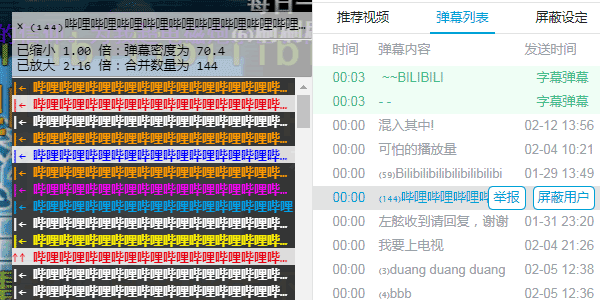
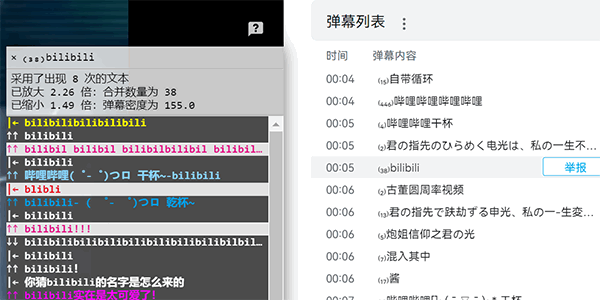
show deleted danmu in fluctlight graph

diff --git a/pakkujs/injected/fluctlight.ts b/pakkujs/injected/fluctlight.ts
@@ -5,8 +5,16 @@ import {dispval, DISPVAL_TIME_THRESHOLD} from "../core/post_combine";
 const DETAILS_MAX_TIMEDELTA_MS = 10 * 1000;
 const GRAPH_DENSITY_POWER = .8;
 const GRAPH_DENSITY_SCALE = .6;
-const GRAPH_DENSITY_DELTA = 1;
+const GRAPH_DENSITY_DELTA = 2;
 const GRAPH_ALPHA = .6;
+
+const COLOR_FILL_WITHDEL = '#ff8888';
+const COLOR_FILL_BEF = '#ffbb88';
+const COLOR_FILL_AFT = '#aa99ff';
+
+const COLOR_LINE_WITHDEL = '#bb0000';
+const COLOR_LINE_BEF = '#995500';
+const COLOR_LINE_AFT = '#0000cc';
 
 function fluctlight_cleanup() {
     for(let elem of window.root_elem.querySelectorAll('.pakku-fluctlight')) {
@@ -20,7 +28,7 @@ function fluctlight_cleanup() {
 }
 
 function inject_fluctlight_graph(bar_elem: HTMLElement, _version: int, cvs_container_elem_for_v2: HTMLElement | null) {
-    let HEIGHT = 350;
+    let HEIGHT = 300;
     let SEEKBAR_PADDING = _version === 1 ? 6 : 0;
     let WIDTH = bar_elem.clientWidth - SEEKBAR_PADDING;
 
@@ -73,7 +81,8 @@ function inject_fluctlight_graph(bar_elem: HTMLElement, _version: int, cvs_conta
         return d <= .001 ? 0 : GRAPH_DENSITY_DELTA + Math.pow(d, GRAPH_DENSITY_POWER) * GRAPH_DENSITY_SCALE;
     }
 
-    let den_bef: number[] = [], den_aft: number[] = [], graph_img: HTMLCanvasElement | null = null;
+    let den_withdel: number[] = [], den_bef: number[] = [], den_aft: number[] = [];
+    let graph_img: HTMLCanvasElement | null = null;
 
     function block(time: number) {
         return Math.round(time * WIDTH / DURATION);
@@ -84,15 +93,16 @@ function inject_fluctlight_graph(bar_elem: HTMLElement, _version: int, cvs_conta
         bar_elem.dataset['pakku_cache_width'] = ''+WIDTH;
         console.log('pakku fluctlight: recalc dispval graph with WIDTH =', WIDTH);
 
-        function apply_dispval(arr: number[], time_ms_override?: number) {
+        function apply_dispval(arr: number[]) {
             return function (p: DanmuObject) {
                 let dispv = dispval(p);
-                let time_ms = time_ms_override === undefined ? p.time_ms : time_ms_override;
+                let time_ms = p.time_ms;
                 arr[Math.max(0, block(time_ms))] += dispv;
                 arr[block(time_ms + DISPVAL_TIME_THRESHOLD) + 1] -= dispv;
             }
         }
 
+        den_withdel = zero_array(WIDTH);
         den_bef = zero_array(WIDTH);
         den_aft = zero_array(WIDTH);
 
@@ -104,13 +114,20 @@ function inject_fluctlight_graph(bar_elem: HTMLElement, _version: int, cvs_conta
 
         for(let d of window.danmus) {
             if(!d.pakku.peers.length || d.pakku.peers[0].mode === 8/*code*/) return;
-            apply_dispval(den_aft, d.time_ms)(d.pakku.peers[0]);
+            apply_dispval(den_aft)(d);
             d.pakku.peers.forEach(apply_dispval(den_bef));
+        }
+        for(let d of window.danmus_del) {
+            apply_dispval(den_withdel)(d);
         }
 
         for(let w = 1; w < WIDTH; w++) {
+            den_withdel[w] += den_withdel[w - 1];
             den_bef[w] += den_bef[w - 1];
             den_aft[w] += den_aft[w - 1];
+        }
+        for(let w = 0; w < WIDTH; w++) {
+            den_withdel[w] += den_bef[w];
         }
 
         // now draw the canvas
@@ -120,17 +137,40 @@ function inject_fluctlight_graph(bar_elem: HTMLElement, _version: int, cvs_conta
         offscreen_canvas.height = HEIGHT;
         let ctx = offscreen_canvas.getContext('2d')!;
 
+
+        ctx.beginPath();
+        ctx.moveTo(0, HEIGHT);
+        for(let w = 0; w < WIDTH; w++)
+            ctx.lineTo(w, HEIGHT - density_transform(den_withdel[w]));
+        ctx.lineTo(WIDTH - 1, HEIGHT);
+        ctx.closePath();
+        // withdel
+        ctx.globalCompositeOperation = 'source-over';
+        ctx.globalAlpha = GRAPH_ALPHA;
+        ctx.strokeStyle = COLOR_LINE_WITHDEL;
+        ctx.fillStyle = COLOR_FILL_WITHDEL;
+        ctx.fill();
+        ctx.globalCompositeOperation = 'source-atop';
+        ctx.stroke();
+
         ctx.beginPath();
         ctx.moveTo(0, HEIGHT);
         for(let w = 0; w < WIDTH; w++)
             ctx.lineTo(w, HEIGHT - density_transform(den_bef[w]));
         ctx.lineTo(WIDTH - 1, HEIGHT);
         ctx.closePath();
+        // clear
+        ctx.globalCompositeOperation = 'destination-out';
+        ctx.globalAlpha = 1;
+        ctx.fill();
         // before
         ctx.globalCompositeOperation = 'source-over';
         ctx.globalAlpha = GRAPH_ALPHA;
-        ctx.fillStyle = '#ff4444';
+        ctx.strokeStyle = COLOR_LINE_BEF;
+        ctx.fillStyle = COLOR_FILL_BEF;
         ctx.fill();
+        ctx.globalCompositeOperation = 'source-atop';
+        ctx.stroke();
 
         ctx.beginPath();
         ctx.moveTo(0, HEIGHT);
@@ -144,12 +184,26 @@ function inject_fluctlight_graph(bar_elem: HTMLElement, _version: int, cvs_conta
         ctx.fill();
         // after
         ctx.globalCompositeOperation = 'source-over';
-        ctx.fillStyle = '#7744ff';
+        ctx.strokeStyle = COLOR_LINE_AFT;
+        ctx.fillStyle = COLOR_FILL_AFT;
+        ctx.globalAlpha = GRAPH_ALPHA;
+        ctx.fill();
+        ctx.globalCompositeOperation = 'source-atop';
+        ctx.stroke();
+
+        // clear bottom line
+        ctx.beginPath();
+        ctx.moveTo(0, HEIGHT);
+        ctx.lineTo(0, HEIGHT-2);
+        ctx.lineTo(WIDTH - 1, HEIGHT-2);
+        ctx.lineTo(WIDTH - 1, HEIGHT);
+        ctx.closePath();
+        ctx.globalCompositeOperation = 'source-atop';
+        ctx.fillStyle = COLOR_FILL_AFT;
         ctx.globalAlpha = GRAPH_ALPHA;
         ctx.fill();
 
         graph_img = offscreen_canvas;
-
         return true;
     }
 
@@ -184,8 +238,9 @@ function inject_fluctlight_graph(bar_elem: HTMLElement, _version: int, cvs_conta
 
             // highlight current time
             ctx.globalCompositeOperation = 'source-over';
-            drawline(curblock, Math.pow(den_bef[curblock], GRAPH_DENSITY_POWER) * GRAPH_DENSITY_SCALE, 2, '#cc0000', 1);
-            drawline(curblock, Math.pow(den_aft[curblock], GRAPH_DENSITY_POWER) * GRAPH_DENSITY_SCALE, 2, '#0000cc', 1);
+            drawline(curblock, density_transform(den_withdel[curblock]), 2, COLOR_LINE_WITHDEL, 1);
+            drawline(curblock, density_transform(den_bef[curblock]), 2, COLOR_LINE_BEF, 1);
+            drawline(curblock, density_transform(den_aft[curblock]), 2, COLOR_LINE_AFT, 1);
         }
 
         ctx.restore();
@@ -366,7 +421,7 @@ function inject_fluctlight_details(bar_elem: HTMLElement, _version: int) {
                     fluct.appendChild(to_dom(danmu));
                 });
 
-                let container_height = (danmus.length ? 4 + 14 * danmus.length : 0);
+                let container_height = (danmus.length ? 4 + 16 * danmus.length : 0);
 
                 fluct.style.height = container_height + 'px';
                 if (_version === 3 || _version === 4) {

diff --git a/pakkujs/core/scheduler.ts b/pakkujs/core/scheduler.ts
@@ -66,6 +66,7 @@ class Scheduler {
     chunks_in: Map<int, DanmuChunk<DanmuObject>>;
     clusters: Map<int, DanmuClusterOutput>;
     chunks_out: Map<int, DanmuChunk<DanmuObjectRepresentative>>;
+    chunks_deleted: Map<int, DanmuChunk<DanmuObject>>;
 
     num_chunks: int;
     combine_started: Set<int>;
@@ -87,6 +88,7 @@ class Scheduler {
         this.chunks_in = new Map();
         this.clusters = new Map();
         this.chunks_out = new Map();
+        this.chunks_deleted = new Map();
         this.num_chunks = 0;
         this.combine_started = new Set();
         this.failed = false;
@@ -247,10 +249,38 @@ class Scheduler {
         this.ongoing_stats.notify(this.tabid, this.config);
         this.stats = this.ongoing_stats;
 
-        if(this.config.GLOBAL_SWITCH && !this.config.SKIP_INJECT) {
-            setTimeout(()=>{
-                do_inject(this.chunks_out, this.config);
-            }, 150); // delay ui injection to improve player responsiveness
+        setTimeout(()=>{
+            this.calc_chunk_deleted();
+            if(this.config.GLOBAL_SWITCH && !this.config.SKIP_INJECT) {
+                do_inject(this.chunks_out, this.chunks_deleted, this.config);
+            }
+        }, 300); // delay ui injection to improve player responsiveness
+    }
+
+    calc_chunk_deleted() {
+        let out_danmu_ids = new Set();
+        for(let chunk of this.chunks_out.values()) {
+            for(let dr of chunk.objs) {
+                out_danmu_ids.add(dr.id);
+                for(let dp of dr.pakku.peers)
+                    out_danmu_ids.add(dp.id);
+            }
+        }
+
+        this.chunks_deleted.clear();
+
+        for(let [idx, chunk_in] of this.chunks_in) {
+            let chunk_del = {
+                objs: [] as DanmuObject[],
+                extra: chunk_in.extra,
+            };
+
+            for(let d of chunk_in.objs) {
+                if(!out_danmu_ids.has(d.id))
+                    chunk_del.objs.push(d);
+            }
+
+            this.chunks_deleted.set(idx, chunk_del);
         }
     }
 
@@ -265,7 +295,7 @@ class Scheduler {
             this.pool.terminate();
             if(this.userscript)
                 this.userscript.terminate();
-        }, 1000); // delay destroying web workers to fix view req race and improve performance
+        }, 1500); // delay destroying web workers to fix view req race and improve performance
     }
 
     async init_userscript() {

diff --git a/pakkujs/injected/do_inject.ts b/pakkujs/injected/do_inject.ts
@@ -1,18 +1,18 @@
-import {DanmuChunk, DanmuObjectRepresentative, int} from "../core/types";
+import {DanmuChunk, DanmuObject, DanmuObjectRepresentative, int} from "../core/types";
 import {Config} from "../background/config";
 import {inject_fluctlight} from "./fluctlight";
 import {inject_panel} from "./panel";
 import {disable_danmu, reload_danmu_magic, show_danmu_list} from "./misc";
 
-function combine_into_d(chunks: Map<int, DanmuChunk<DanmuObjectRepresentative>>): DanmuObjectRepresentative[] {
-    let D: DanmuObjectRepresentative[] = [];
+function combine_into_d<ObjectType extends DanmuObject>(chunks: Map<int, DanmuChunk<ObjectType>>): ObjectType[] {
+    let D: ObjectType[] = [];
     let keys_sorted = Array.from(chunks.keys()).sort((a, b)=>a-b);
     for(let k of keys_sorted)
         D.push(...chunks.get(k)!.objs);
     return D;
 }
 
-export function do_inject(chunks: Map<int, DanmuChunk<DanmuObjectRepresentative>>, config: Config) {
+export function do_inject(chunks: Map<int, DanmuChunk<DanmuObjectRepresentative>>, chunks_del: Map<int, DanmuChunk<DanmuObject>>, config: Config) {
     let try_left = 50;
 
     function try_inject() {
@@ -49,6 +49,7 @@ export function do_inject(chunks: Map<int, DanmuChunk<DanmuObjectRepresentative>
         }
         
         window.danmus = combine_into_d(chunks);
+        window.danmus_del = combine_into_d(chunks_del);
 
         if(pakku_tag_elem.classList.contains('__pakku_injected')) {
             console.log('pakku injector: already injected');

diff --git a/pakkujs/injected/fluctlight.css b/pakkujs/injected/fluctlight.css
@@ -10,7 +10,7 @@
     text-align: left;
     padding: 2px;
     box-sizing: border-box;
-    background-color: rgba(205,205,205,.8);
+    background-color: rgba(229, 229, 229, .8);
     color: black !important;
 }
 .pakku-fluctlight-fluct:empty {
@@ -18,9 +18,9 @@
 }
 .pakku-fluctlight-fluct p {
     white-space: nowrap;
-    height: 14px;
+    height: 16px;
     font-size: 12px;
-    line-height: 14px;
+    line-height: 16px;
     margin: 0;
 }
 

diff --git a/pakkujs/injected/global.d.ts b/pakkujs/injected/global.d.ts
@@ -6,4 +6,5 @@ interface Window {
     root_elem: HTMLElement;
     reload_danmu_magic: (key: int) => void;
     danmus: import('../core/types').DanmuObjectRepresentative[];
+    danmus_del: import('../core/types').DanmuObject[];
 }
